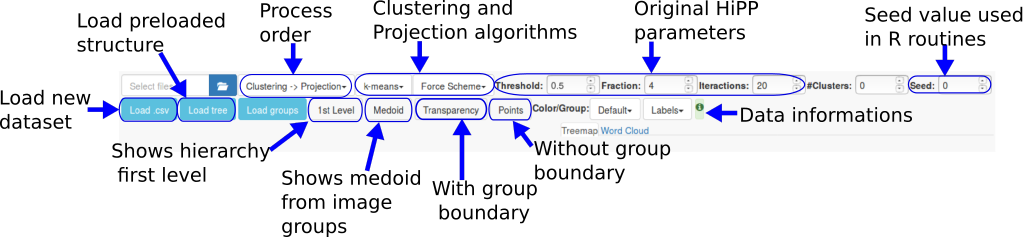
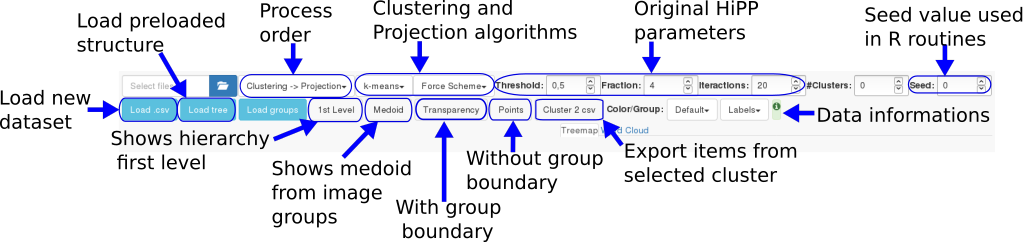
Updating documentation

diff --git a/README.md b/README.md
@@ -121,6 +121,15 @@ To summarize data groups:
 * Audio groups could present spectrogram images from medoid item;
 * To other data types, when mouse hover, images with a heatmap representing attribute values distribution.
 
+### Cluster exportation
+
+Users can export a CSV file with the current cluster items. The file contains information as id, group, and position generated by 
+projection as following
+
+| id  | X | Y | group |
+| ----- | ----- | ----- | ------ |
+| file1.txt | 0.3 | 0.5 | news |
+
 ## Screenshots
 
 ### Tool set
